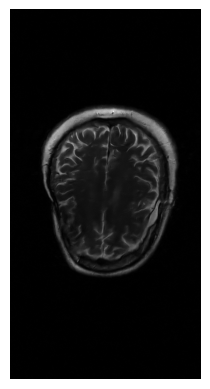
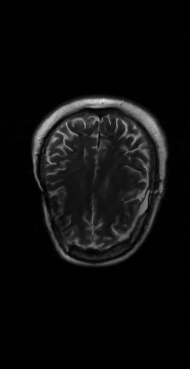
remove white space, add some contrast

diff --git a/my_CDLNet/utils.py b/my_CDLNet/utils.py
@@ -51,4 +51,4 @@ def saveimg(x, name, contrast=False):
         x = contrast_enhance(x)
     plt.imshow(x, cmap = 'gray')
     plt.axis('off')
-    plt.savefig(name, bbox_inches='tight')
+    plt.savefig(name, bbox_inches='tight', pad_inches = 0)
